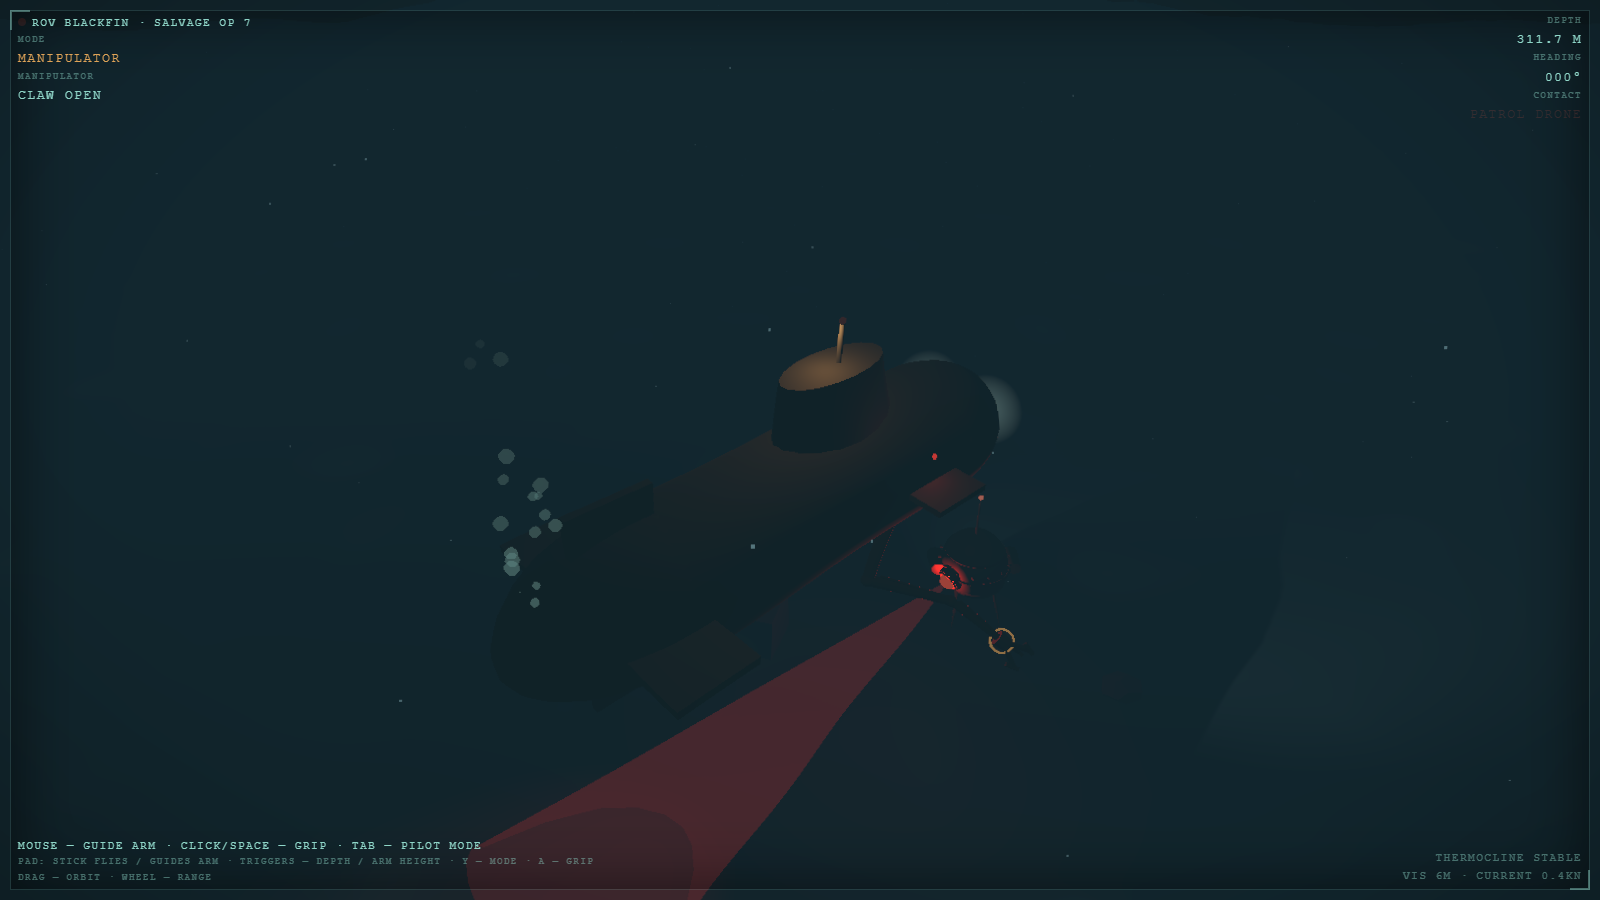
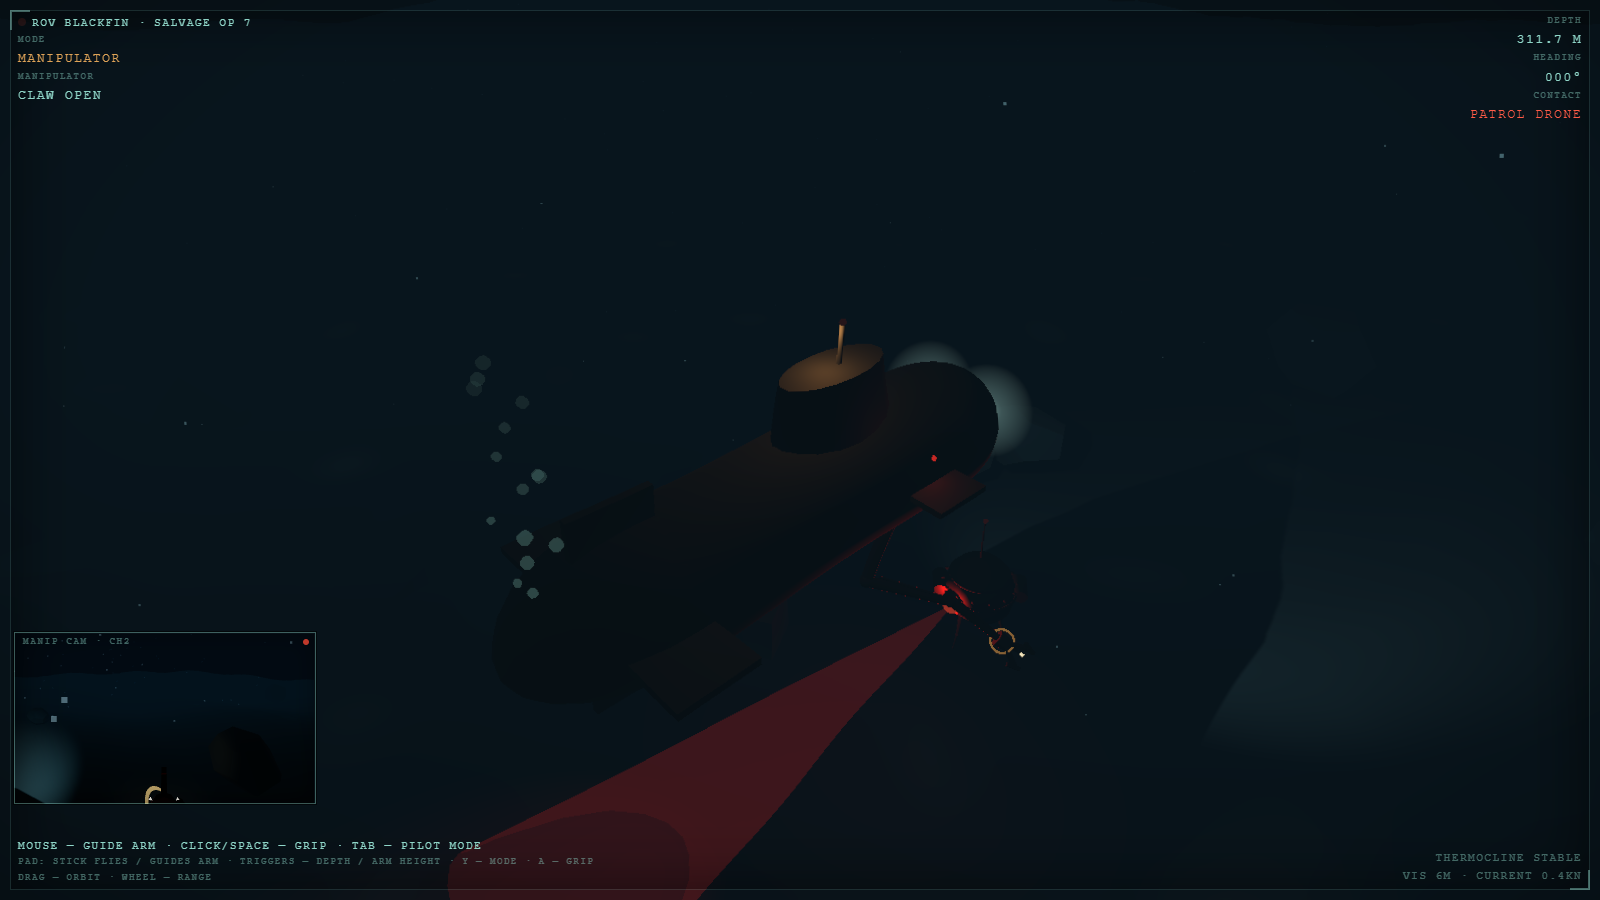
Claw cam PiP, hot bulbs, brighter spots, contrast, throttle wake
- MANIP CAM · CH2: scissored second render bottom-left from a camera
  mounted over the claw wrist, with its own warm work light on the
  claw (lights whatever you reach for, in both views)
- Visible emissive bulbs in the floodlight housings; halos bigger;
  spotlights 220 -> 560 candela
- Contrast: the post pass's flat blue lift was washing out the frame —
  replaced with a contrast curve that keeps darks dark
- Propeller spins with throttle (brighter steel + hub so it reads);
  stern bubbles churn with the throttle — pushed aft through the prop
  wash with turbulent swirl, lazy seep at idle

diff --git a/src/sub.ts b/src/sub.ts
@@ -136,14 +136,18 @@ let navLight: THREE.Mesh;
   hullGroup.add(shroud);
   propGroup = new THREE.Group();
   propGroup.position.x = -3.15;
+  // brighter steel so the spinning blades actually read in the dark
+  const propMat = new THREE.MeshStandardMaterial({ color: 0x424a52, roughness: 0.5, metalness: 0.55 });
   for (let i = 0; i < 4; i++) {
-    const b = new THREE.Mesh(new THREE.BoxGeometry(0.05, 0.42, 0.12), panelMat);
+    const b = new THREE.Mesh(new THREE.BoxGeometry(0.05, 0.42, 0.14), propMat);
     b.position.y = 0.22;
     const holder = new THREE.Group();
     holder.add(b);
     holder.rotation.x = (i * Math.PI) / 2;
     propGroup.add(holder);
   }
+  const hub = new THREE.Mesh(new THREE.SphereGeometry(0.09, 8, 8), propMat);
+  propGroup.add(hub);
   hullGroup.add(propGroup);
 }
 
@@ -210,7 +214,7 @@ function floodlight(y: number, z: number): void {
   housing.rotation.z = Math.PI / 2 - 0.35;
   housing.position.set(2.6, y, z);
   hullGroup.add(housing);
-  const lamp = new THREE.SpotLight(0xbfe9e2, 220, 26, 0.5, 0.55, 1.4);
+  const lamp = new THREE.SpotLight(0xbfe9e2, 560, 34, 0.48, 0.55, 1.4);
   lamp.position.set(2.7, y, z);
   lamp.castShadow = true;
   lamp.shadow.mapSize.set(512, 512);
@@ -219,6 +223,14 @@ function floodlight(y: number, z: number): void {
   hullGroup.add(tgt);
   lamp.target = tgt;
   hullGroup.add(lamp);
+
+  // the hot bulb itself — a small emissive core the bloom can catch
+  const bulb = new THREE.Mesh(
+    new THREE.SphereGeometry(0.065, 10, 10),
+    new THREE.MeshBasicMaterial({ color: 0xeaffff }),
+  );
+  bulb.position.set(2.72, y, z);
+  hullGroup.add(bulb);
 
   const cone = new THREE.Mesh(new THREE.ConeGeometry(1.7, 9, 24, 1, true), makeBeamMaterial());
   // apex at the lamp, opening forward-down along the beam direction
@@ -238,7 +250,8 @@ function floodlight(y: number, z: number): void {
       depthWrite: false,
     }),
   );
-  halo.scale.setScalar(0.9);
+  halo.scale.setScalar(1.2);
+  (halo.material as THREE.SpriteMaterial).opacity = 0.55;
   halo.position.copy(lamp.position).addScaledVector(dir, 0.25);
   hullGroup.add(halo);
 }
@@ -566,6 +579,29 @@ for (let i = 0; i < 3; i++) {
 let clawClosed = false;
 let clawT = 0;
 
+// claw work light: a small warm lamp on the wrist, lighting whatever the
+// claw is reaching for — plus the claw cam that feeds the PiP viewport
+const clawLamp = new THREE.SpotLight(0xffe2b8, 90, 10, 0.62, 0.6, 1.6);
+clawLamp.position.set(0, 0.1, 0.05);
+const clawLampTarget = new THREE.Object3D();
+clawLampTarget.position.set(0, 0, 3);
+claw.add(clawLampTarget);
+clawLamp.target = clawLampTarget;
+claw.add(clawLamp);
+const clawBulb = new THREE.Mesh(
+  new THREE.SphereGeometry(0.018, 8, 8),
+  new THREE.MeshBasicMaterial({ color: 0xffedd0 }),
+);
+clawBulb.position.set(0, -0.09, 0.06); // under the wrist, out of the cam's eye
+claw.add(clawBulb);
+clawLamp.position.set(0, -0.09, 0.05);
+
+const clawCam = new THREE.PerspectiveCamera(62, 300 / 170, 0.05, 60);
+clawCam.position.set(0, 0.42, -1.0); // over-the-shoulder of the wrist
+clawCam.rotation.y = Math.PI; // camera looks down -Z; claw forward is +Z
+clawCam.rotation.x = -0.18; // tilted down toward the fingertips
+claw.add(clawCam);
+
 // target reticle
 const reticle = new THREE.Group();
 {
@@ -758,6 +794,8 @@ const THRUST = 14;
 const VTHRUST = 8;
 const TURN = 1.4;
 const DRAG = 0.55;
+let throttle = 0; // |thrust input|, drives prop spin + wake turbulence
+let propSpin = 0;
 
 // ------------------------------------------------------------------- post ---
 const composer = new EffectComposer(renderer);
@@ -790,10 +828,12 @@ const underwaterPass = new ShaderPass({
         cos(vUv.x * 30.0 + time * 0.95)
       ) * 0.0013;
       vec4 c = texture2D(tDiffuse, uv);
-      // water column grade: absorb red, lift the blue-greens in the darks
+      // water column grade: absorb red; contrast curve keeps the darks DARK
+      // (a flat blue lift here was washing the whole frame out)
       float lum = dot(c.rgb, vec3(0.299, 0.587, 0.114));
       c.rgb = mix(c.rgb, c.rgb * vec3(0.82, 1.0, 1.04), 0.4);
-      c.rgb += vec3(0.002, 0.010, 0.013) * (1.0 - lum);
+      c.rgb += vec3(0.001, 0.004, 0.006) * (1.0 - lum);
+      c.rgb = pow(max(c.rgb, 0.0), vec3(1.22)) * 1.16;
       // vignette
       float d = length((vUv - 0.5) * vec2(1.25, 1.0));
       float vig = smoothstep(1.0, 0.5, d);
@@ -844,6 +884,7 @@ function animate(): void {
       vert += pad.rt - pad.lt;
     }
   }
+  throttle = THREE.MathUtils.lerp(throttle, Math.min(1, Math.abs(thrust)), 1 - Math.exp(-5 * dt));
   sub.yawVel += turn * TURN * dt;
   sub.yawVel *= Math.exp(-2.2 * dt);
   sub.yaw += sub.yawVel * dt * 60 * 0.02;
@@ -870,7 +911,8 @@ function animate(): void {
     THREE.MathUtils.clamp(-sub.vel.y * 0.03, -0.2, 0.2) + Math.sin(t * 0.53 + 1) * 0.012,
     1 - Math.exp(-4 * dt),
   );
-  propGroup.rotation.x = t * (4 + sub.vel.length() * 2);
+  propSpin += dt * (1.5 + throttle * 22 + sub.vel.length() * 1.5);
+  propGroup.rotation.x = propSpin;
   (navLight.material as THREE.MeshBasicMaterial).color.setHex(
     t % 1.4 < 0.15 ? 0xff5040 : 0x3a1210, // anticollision beacon, dim red
   );
@@ -1015,24 +1057,38 @@ function animate(): void {
   }
   p.needsUpdate = true;
 
-  // --- thruster bubbles from the stern ---
-  for (const b of bubbles) {
-    b.userData.life += dt * 0.35;
+  // --- thruster wake: bubbles churned out with the throttle, tumbling in
+  // the prop wash before rising ---
+  for (let bi = 0; bi < bubbles.length; bi++) {
+    const b = bubbles[bi];
+    b.userData.life += dt * (0.25 + throttle * 1.3);
     if (b.userData.life > 1) {
-      b.userData.life = 0;
-      b.position
-        .copy(sub.pos)
-        .addScaledVector(forward, -3.2)
-        .add(
-          new THREE.Vector3(
-            (Math.random() - 0.5) * 0.4,
-            (Math.random() - 0.5) * 0.4,
-            (Math.random() - 0.5) * 0.4,
-          ),
-        );
+      // idle: a lazy seep. Under thrust: a full churn.
+      if (throttle > 0.05 || Math.random() < 0.25) {
+        b.userData.life = 0;
+        b.position
+          .copy(sub.pos)
+          .addScaledVector(forward, -3.2)
+          .add(
+            new THREE.Vector3(
+              (Math.random() - 0.5) * 0.4,
+              (Math.random() - 0.5) * 0.4,
+              (Math.random() - 0.5) * 0.4,
+            ),
+          );
+      } else {
+        b.userData.life = 1; // parked until next tick
+        (b.material as THREE.MeshBasicMaterial).opacity = 0;
+        continue;
+      }
     }
-    b.position.y += dt * (0.6 + b.userData.life);
-    (b.material as THREE.MeshBasicMaterial).opacity = 0.25 * (1 - b.userData.life);
+    const life = b.userData.life;
+    // pushed aft by the prop wash, swirling, then buoyancy takes over
+    b.position.addScaledVector(forward, -dt * throttle * 2.6 * (1 - life));
+    b.position.x += Math.sin(t * 9 + bi * 1.7) * dt * (0.15 + throttle * 0.8);
+    b.position.z += Math.cos(t * 8 + bi * 2.3) * dt * (0.15 + throttle * 0.8);
+    b.position.y += dt * (0.5 + life * (0.6 + throttle * 0.5));
+    (b.material as THREE.MeshBasicMaterial).opacity = (0.22 + throttle * 0.15) * (1 - life);
   }
 
   // beam + caustics + water-wobble animation
@@ -1047,6 +1103,21 @@ function animate(): void {
   headEl.textContent = String(Math.round(heading)).padStart(3, "0") + "°";
 
   composer.render();
+
+  // --- claw cam PiP: raw second render into a scissored viewport that sits
+  // behind the HUD's MANIP CAM frame (bottom-left) ---
+  {
+    const pw = 300;
+    const ph = 170;
+    const px = 14;
+    const py = 96;
+    renderer.setScissorTest(true);
+    renderer.setViewport(px, py, pw, ph);
+    renderer.setScissor(px, py, pw, ph);
+    renderer.render(scene, clawCam);
+    renderer.setScissorTest(false);
+    renderer.setViewport(0, 0, window.innerWidth, window.innerHeight);
+  }
 }
 animate();
 

diff --git a/sub.html b/sub.html
@@ -39,6 +39,19 @@
       .frame::after{bottom:-1px;right:-1px;border-width:0 2px 2px 0;}
       #rec{display:inline-block;width:8px;height:8px;border-radius:50%;
         background:#c0392b;margin-right:6px;animation:blink 1.6s steps(1) infinite;}
+      #pip{
+        position:absolute;left:14px;bottom:96px;width:300px;height:170px;
+        border:1px solid rgba(143,214,200,.4);
+        box-shadow:0 0 0 1px rgba(0,0,0,.6), inset 0 0 24px rgba(0,0,0,.35);
+      }
+      #pip .piplabel{
+        position:absolute;top:4px;left:8px;font-size:9px;color:var(--hud-dim);
+        letter-spacing:.2em;
+      }
+      #pip::after{
+        content:"";position:absolute;right:6px;top:6px;width:6px;height:6px;
+        border-radius:50%;background:#c0392b;animation:blink 1.1s steps(1) infinite;
+      }
       @keyframes blink{50%{opacity:.15;}}
       @media (prefers-reduced-motion: reduce){ #rec{animation:none;} }
       @media (max-width:600px){ .bl,.br{font-size:9px;} }
@@ -72,6 +85,7 @@
         <div>THERMOCLINE STABLE</div>
         <div>VIS 6M · CURRENT 0.4KN</div>
       </div>
+      <div id="pip"><span class="piplabel">MANIP CAM · CH2</span></div>
     </div>
     <script type="module" src="/src/sub.ts"></script>
   </body>